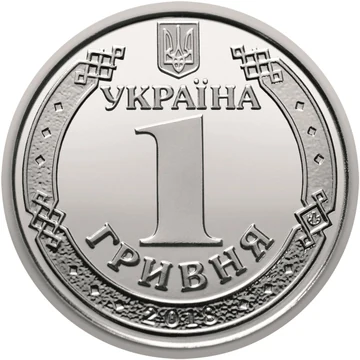
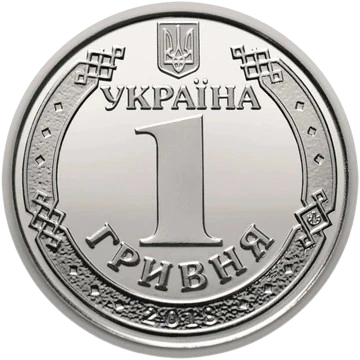
Add South African rand cash and recut Ukrainian coins.
Wire ZAR into Guessr, Moneyle, and Connections, and replace hryvnia coin art with transparent cutouts.

diff --git a/worker/connections.ts b/worker/connections.ts
@@ -60,6 +60,7 @@ const SOLO_CURRENCIES: { slug: string; iso2: string; country: string; shortName:
   { slug: "try", iso2: "tr", country: "Turkey", shortName: "Lira" },
   { slug: "uah", iso2: "ua", country: "Ukraine", shortName: "Hryvnia" },
   { slug: "egp", iso2: "eg", country: "Egypt", shortName: "Pound" },
+  { slug: "zar", iso2: "za", country: "South Africa", shortName: "Rand" },
 ];
 
 /** Euro is shared, so a puzzle never includes two eurozone countries. */

diff --git a/src/pages/Changelog.tsx b/src/pages/Changelog.tsx
@@ -2,6 +2,13 @@ import InfoPage from "../components/InfoPage";
 
 const entries = [
   {
+    date: "August 27, 2026",
+    iso: "2026-08-27",
+    items: [
+      "Money Guessr, Moneyle, and MoneyConnections now include South African rand notes and coins. Ukrainian hryvnia coins were recut with transparent backgrounds.",
+    ],
+  },
+  {
     date: "August 23, 2026",
     iso: "2026-08-23",
     items: [

diff --git a/worker/bonus.ts b/worker/bonus.ts
@@ -61,6 +61,7 @@ const SOLO: Record<string, { iso2: string; country: string }> = {
   TRY: { iso2: "tr", country: "Turkey" },
   UAH: { iso2: "ua", country: "Ukraine" },
   EGP: { iso2: "eg", country: "Egypt" },
+  ZAR: { iso2: "za", country: "South Africa" },
 };
 
 function parseIso2(meta: string | null): string | null {
